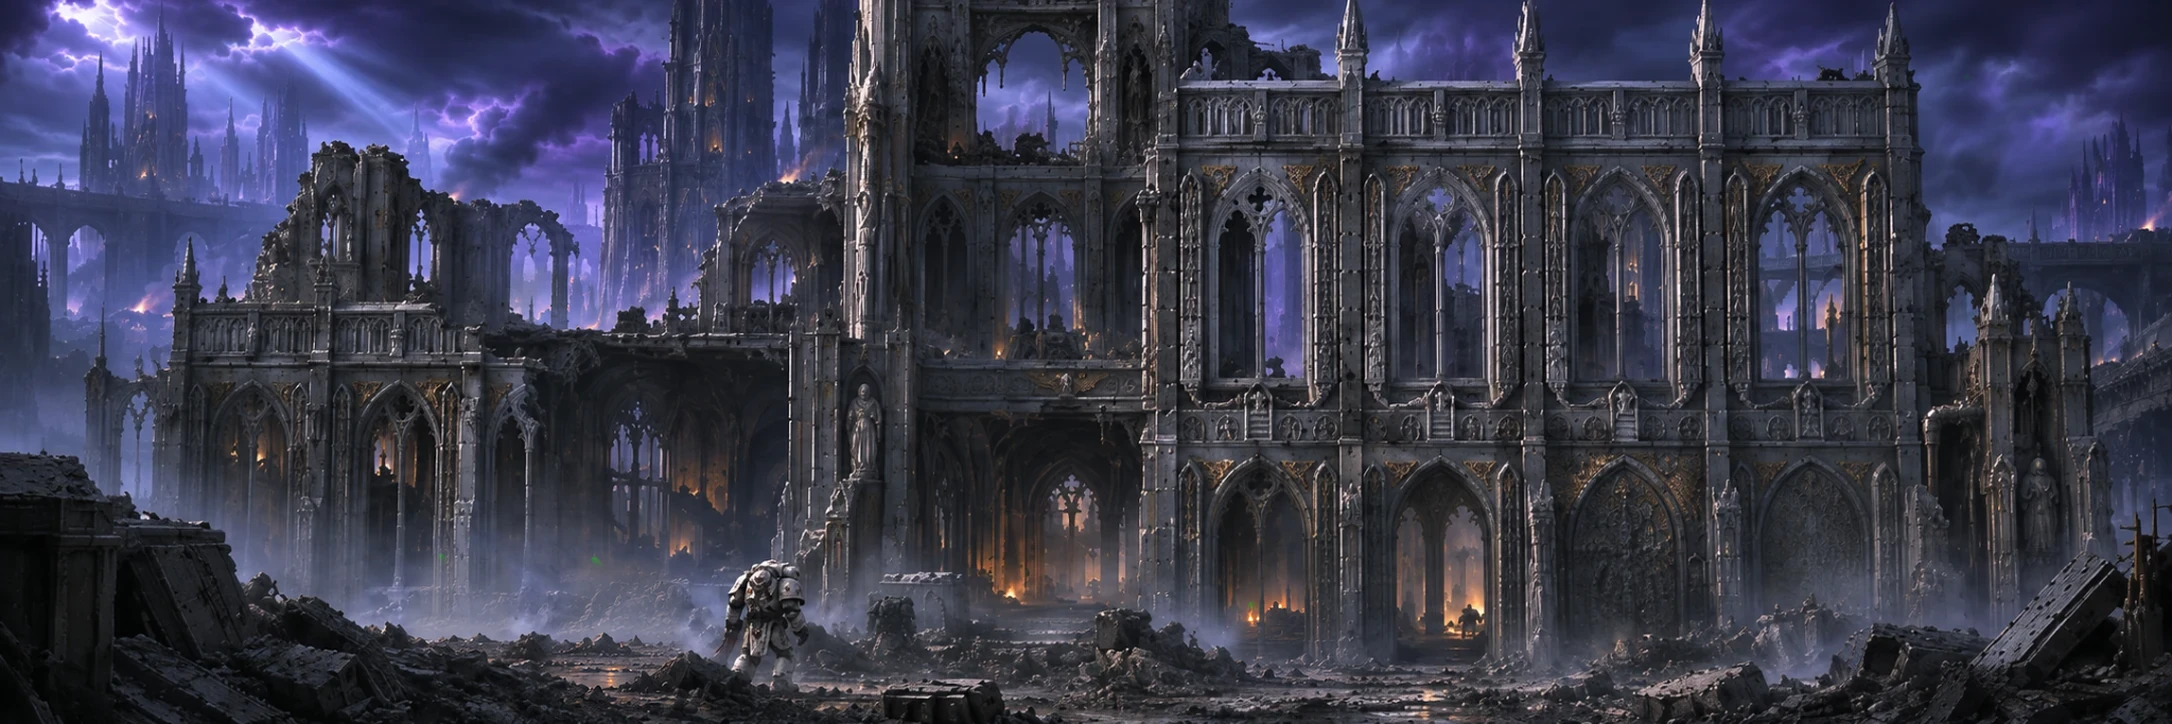
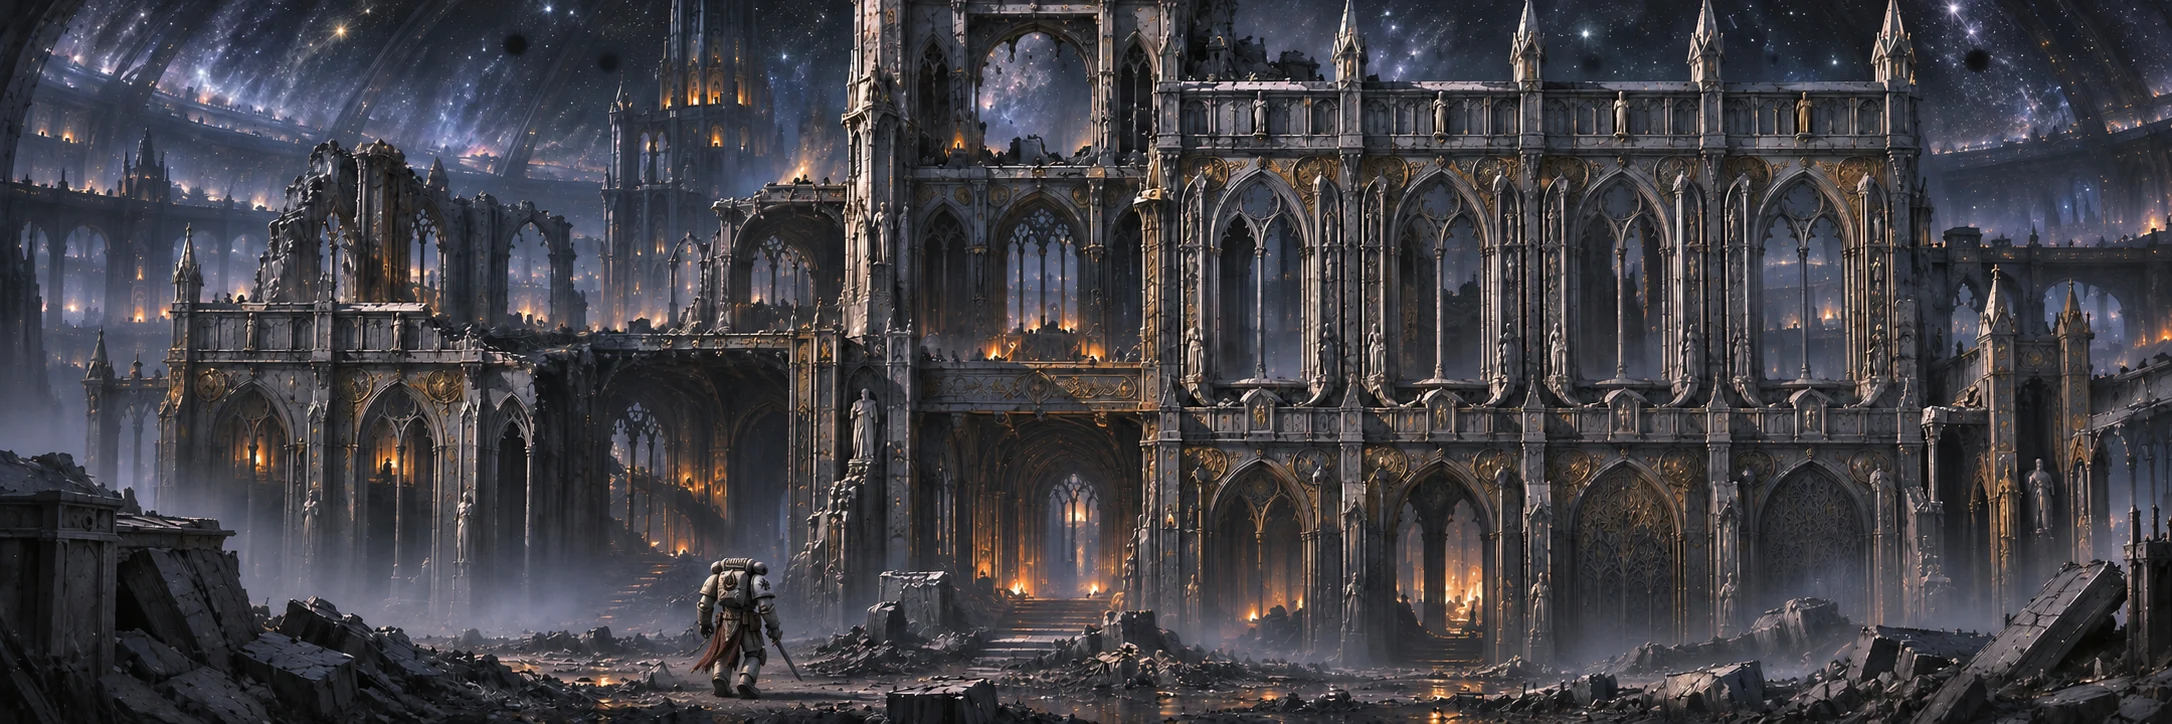
Update Siofra postwar illustration with underground star dome and corrected knight

diff --git a/severed-ember/index.html b/severed-ember/index.html
@@ -818,7 +818,7 @@ M42的监听簿里，十三秒的引力脉冲仍在。</p>
 <p>先过金穹，再下石廊。旗官宣读归来人数，告解者读未归名单。新骑士从《未归》下经过，没有人告诉他最后一幅该如何完成。</p>
 <p>075.M42后，一名矿民母亲要求把儿子应征前的名字刻进石碑。议会拒绝。奥瑞克把她写下的名字收在碑后，没有让人刮掉。</p>
 <h4 id="codex-v02-postwar">希芙拉 · 战后的石廊</h4>
-<figure class="archive-plate chapter-context-art" data-approved-art="20261128-siofra-postwar"><a href="assets/approved-art-20261128/siofra-postwar-patrol.webp?v=20261128b" target="_blank" rel="noopener noreferrer" aria-label="查看希芙拉战后巡防完整图版"><img src="assets/approved-art-20261128/siofra-postwar-patrol.webp?v=20261128b" alt="蓝紫色伪星穹顶下，隐修会战士巡视受损的哥特式修道院" width="2172" height="724" loading="lazy" decoding="async" style="display:block;width:100%;height:auto;object-fit:contain" srcset="assets/approved-art-20261128/siofra-postwar-patrol-mobile.webp?v=20261128b 960w, assets/approved-art-20261128/siofra-postwar-patrol.webp?v=20261128b 2172w" sizes="(max-width:800px) 70vw, (max-width:1200px) 76vw, 60vw"></a><figcaption><strong>希芙拉 · 075.M42战后巡防</strong></figcaption></figure>
+<figure class="archive-plate chapter-context-art" data-approved-art="20261128-siofra-postwar"><a href="assets/approved-art-20261128/siofra-postwar-patrol.webp?v=20261128c" target="_blank" rel="noopener noreferrer" aria-label="查看希芙拉战后巡防完整图版"><img src="assets/approved-art-20261128/siofra-postwar-patrol.webp?v=20261128c" alt="地下伪星穹顶下，骨白动力甲骑士巡视受损的哥特式修道院" width="2172" height="724" loading="lazy" decoding="async" style="display:block;width:100%;height:auto;object-fit:contain" srcset="assets/approved-art-20261128/siofra-postwar-patrol-mobile.webp?v=20261128c 960w, assets/approved-art-20261128/siofra-postwar-patrol.webp?v=20261128c 2172w" sizes="(max-width:800px) 70vw, (max-width:1200px) 76vw, 60vw"></a><figcaption><strong>希芙拉 · 075.M42战后巡防</strong></figcaption></figure>
 <p>深渊之井一役后，第一环区的部分通路仍未恢复。守卫沿残存的拱廊重新布置警戒，内环骑士与突击老兵轮流巡视受损区域。遗迹铁匠优先恢复供水与升降设施，破损的穹顶和圣堂外墙则暂未修缮。</p>
 <p>部分旧殿重新开放，封闭区域的守卫尚未撤去。</p>
 <h4 id="codex-v02-h-4-5">核心舰船：余烬号</h4>
